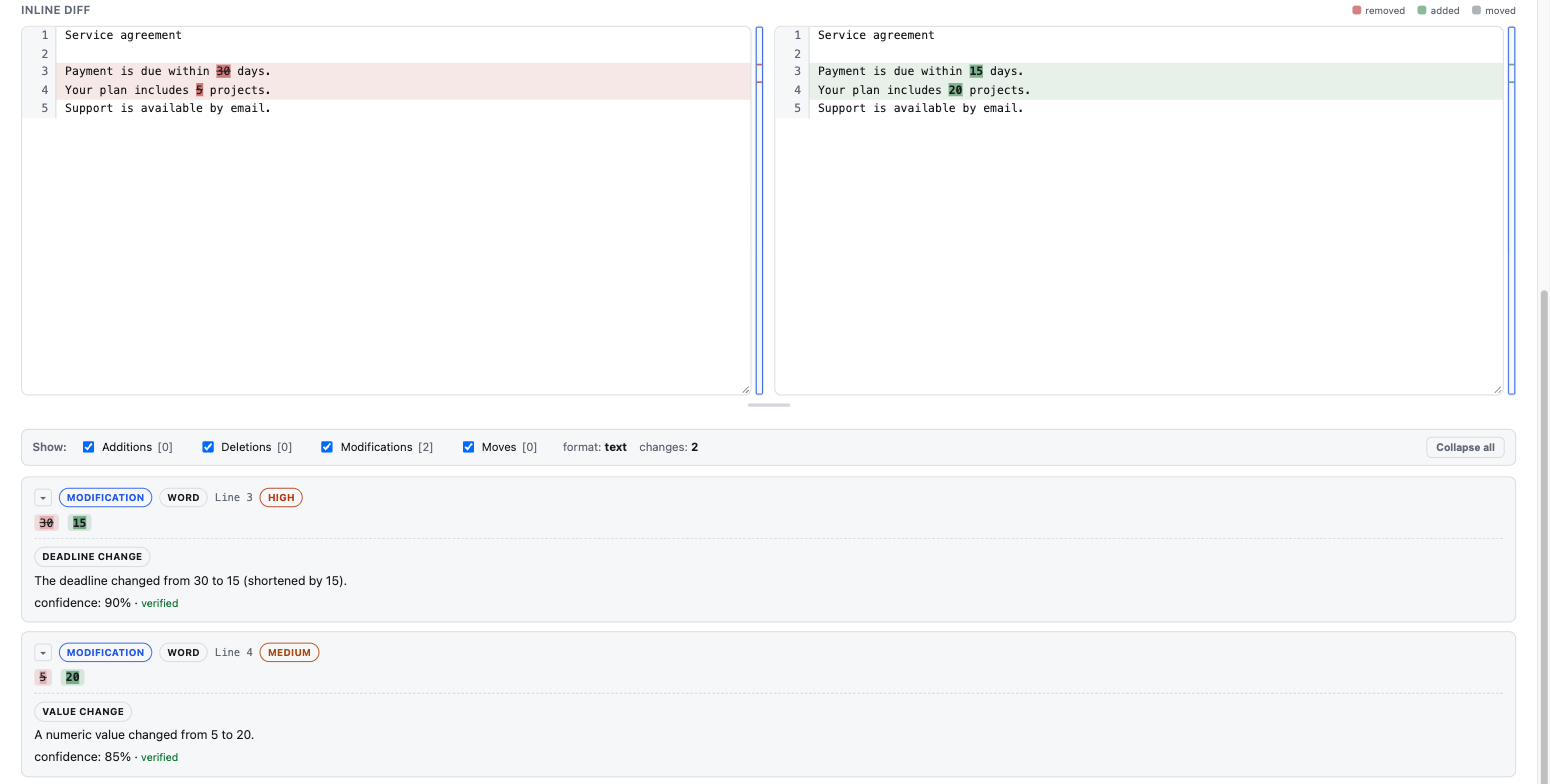
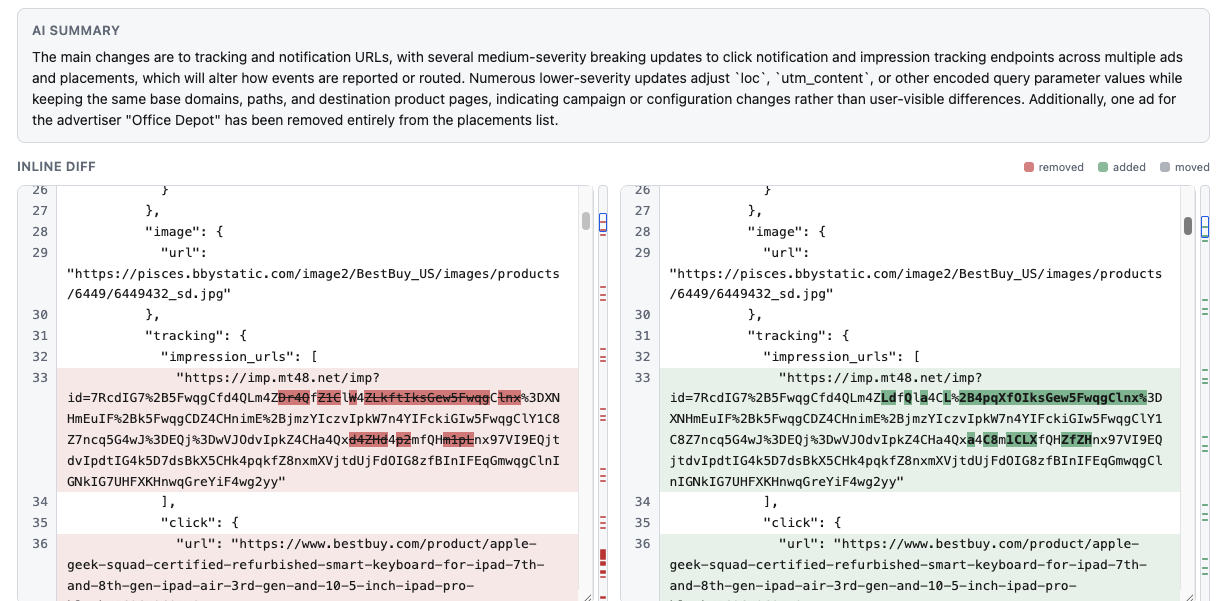
updating app

diff --git a/index.html b/index.html
@@ -26,7 +26,7 @@
       <p class="hero-note">Precise comparison at the core. AI when you need it.</p>
       <div class="preview" id="preview">
         <div class="preview-toolbar"><div class="preview-title"><span class="mini-mark" aria-hidden="true">◧</span> A little change. A big difference.</div></div>
-        <img class="preview-screenshot" src="assets/app-preview.png" alt="DiffFind app showing an inline diff with a shortened payment deadline and an increased project count, each annotated with a confidence-scored AI explanation." width="1550" height="784" loading="lazy">
+        <img class="preview-screenshot" src="assets/app-preview.png" alt="DiffFind app showing an AI summary above an inline diff of a tracking-URL JSON configuration, with removed, added, and moved changes highlighted." width="1230" height="601" loading="lazy">
         <div class="preview-footer"><span><span class="status-dot"></span> Every difference starts with source evidence</span><span>Real comparison, real output</span></div>
       </div>
       <div class="formats"><span>ONE TOOL. MANY FORMATS.</span><div>Text <b>·</b> JSON <b>·</b> YAML <b>·</b> XML <b>·</b> CSV <b>·</b> PDF</div></div>
